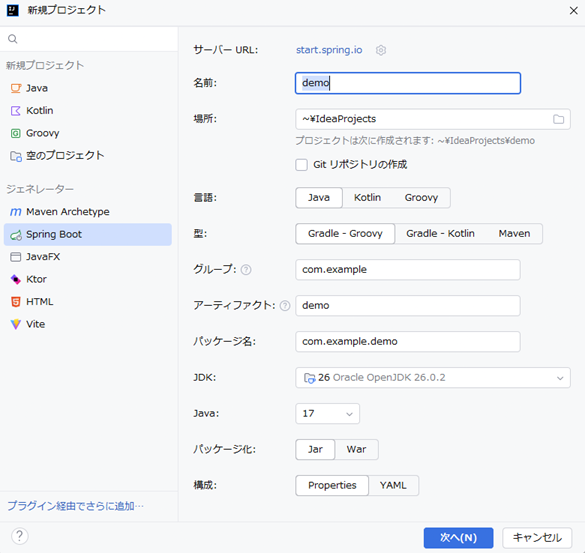
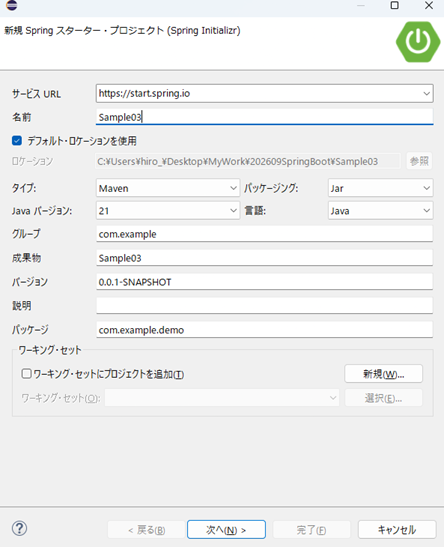
2016101906

diff --git a/CSS/table.css b/CSS/table.css
@@ -1,7 +1,23 @@
-/* ==========================================
-カスタムCSS定義 (css/table.css)
-========================================== */
+/******************************************************************************
+ * Table のデザイン
+ *****************************************************************************/
 
+/*=============================================================================
+ *  table全体のデザイン
+ *===========================================================================*/
+ table {
+  border-collapse: collapse;    /* 枠線を重ねて一本線にする */
+  width: 100%;                  /* 必要に応じて幅を指定 */
+}
+
+table, th, td {
+  border: 1px solid Black; /* 枠線の太さ、スタイル、色を指定 */
+  padding: 8px;             /* セル内の余白（お好みで） */
+}
+
+/*=============================================================================
+ *  Box　のデザイン
+ *===========================================================================*/
 /* 表全体の枠組み（外枠と全体の罫線） */
 .custom-box-table {
     display: flex;
